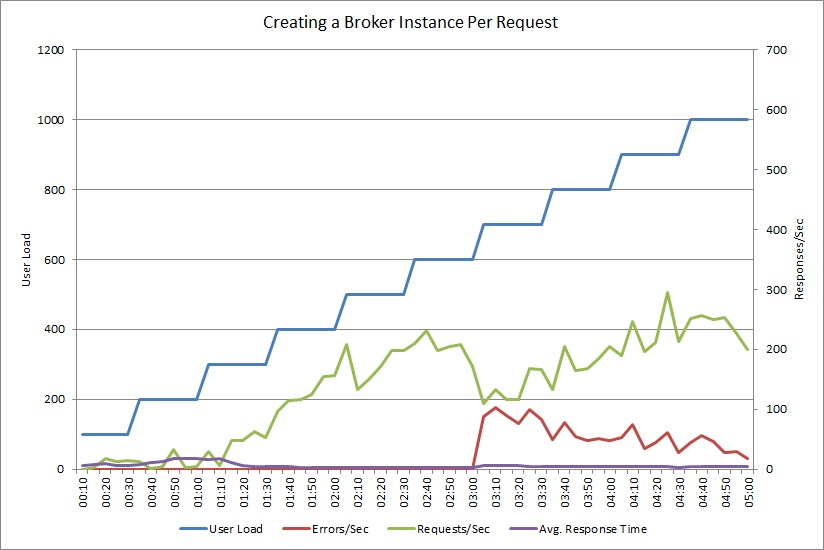
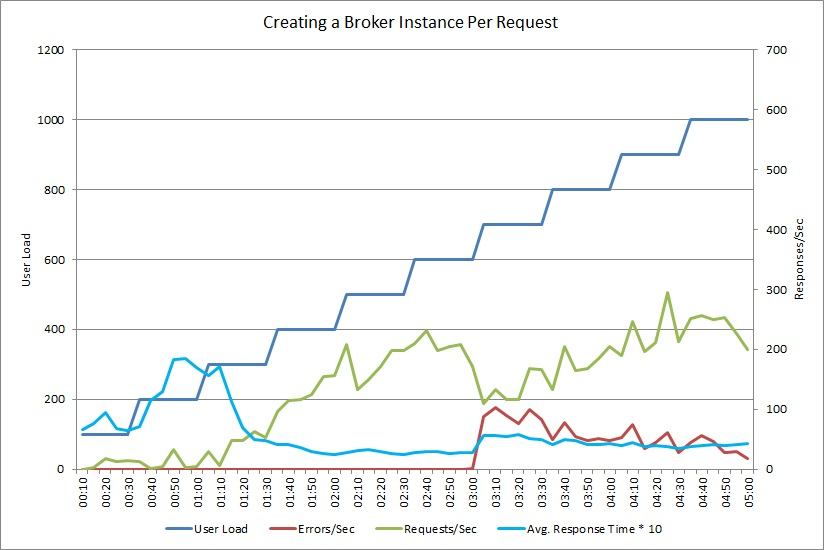
Updated load-test graphs

diff --git a/TooManyInstances/docs/TooManyInstances.md b/TooManyInstances/docs/TooManyInstances.md
@@ -195,6 +195,12 @@ You can use load-testing based on workloads that emulate the typical sequence of
 
 ![Throughput of the sample application creating a new instance of an HttpClient object for each requests][throughput-new-instance]
 
+----------
+
+**Note:** In this graph, the scale of the average response time is ten times that of the requests/second and errors/second data. This scaling makes the response times more visible on the graph.
+
+----------
+
 ### Reviewing the code
 
 If you have managed to identify which parts of an application are causing exceptions due to resource exhaustion, perform a review of the code or use profiling to find out how objects that wrap external resources are being instantiated, used, and destroyed. Where appropriate, refactor code to cache and reuse objects, as described in the following section.
